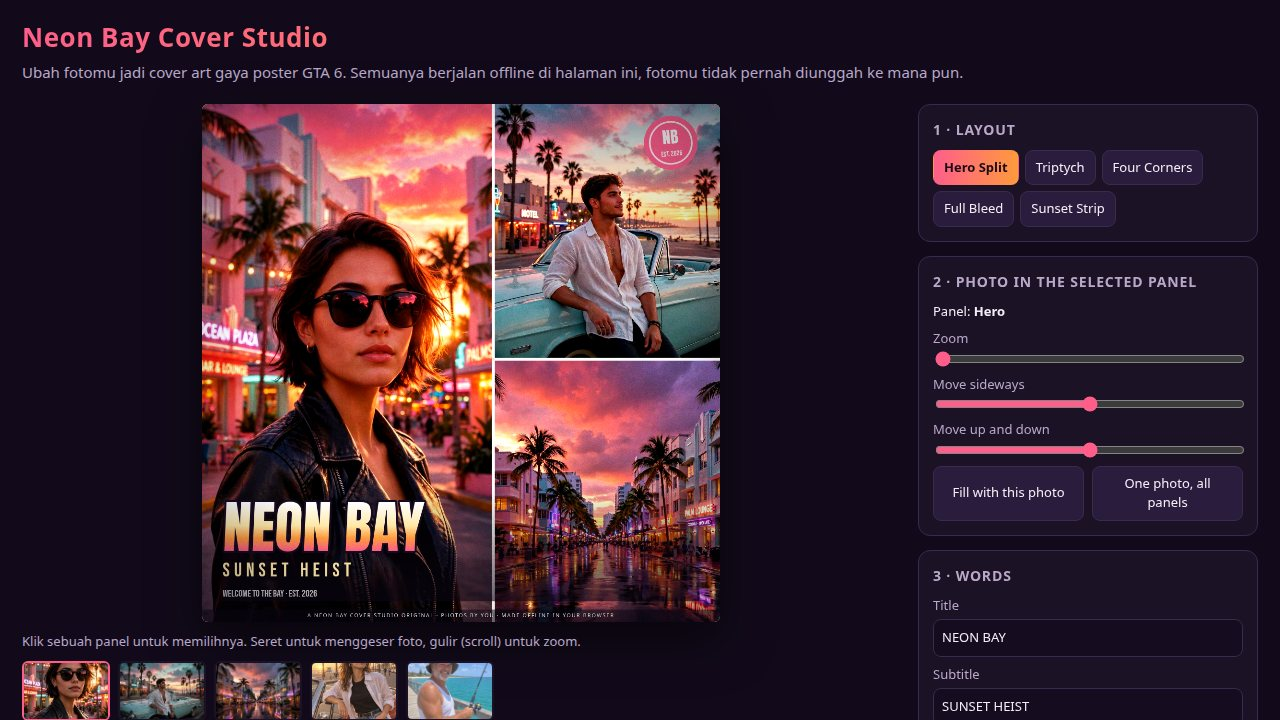
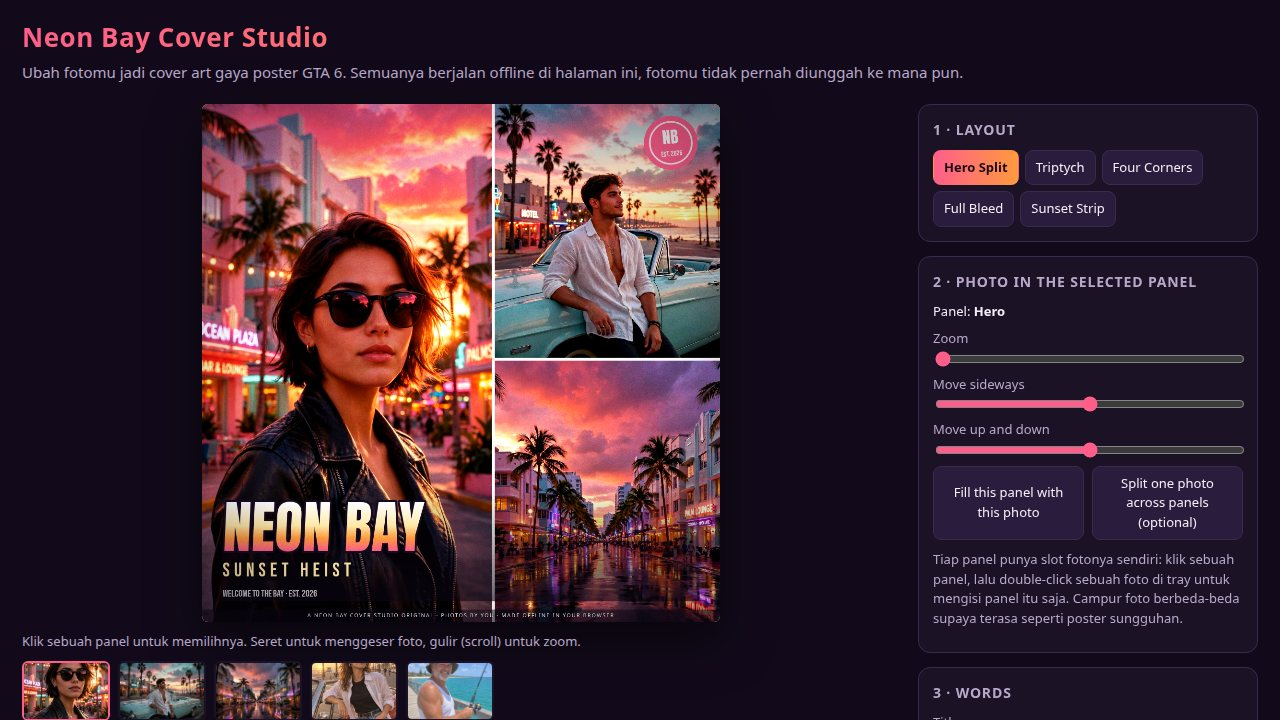
Different photo per panel: fix triptych + portrait shots, per-panel photo flow

Changed region(s): [[0.7188, 0.6417, 0.9688, 1.0]]

diff --git a/app/index.html b/app/index.html
@@ -42,9 +42,10 @@
         <input type="range" id="panYSlider" min="-0.5" max="0.5" step="0.01" value="0">
       </label>
       <div class="row">
-        <button id="fillPanelBtn" type="button">Fill with this photo</button>
-        <button id="fillAllBtn" type="button">One photo, all panels</button>
+        <button id="fillPanelBtn" type="button">Fill this panel with this photo</button>
+        <button id="fillAllBtn" type="button">Split one photo across panels (optional)</button>
       </div>
+      <p class="hint">Tiap panel punya slot fotonya sendiri: klik sebuah panel, lalu double-click sebuah foto di tray untuk mengisi panel itu saja. Campur foto berbeda-beda supaya terasa seperti poster sungguhan.</p>
     </section>
     <section class="group">
       <h2>3 · Words</h2>

diff --git a/app/src/main.js b/app/src/main.js
@@ -353,8 +353,15 @@ function acakSemua() {
   state.title = judul;
   state.subtitle = sub;
   sesuaikanPanelDenganLayout();
-  state.panels.forEach((panel) => {
-    const id = acakDari(FOTO_SAMPEL).id;
+  // Give every panel a different photo: shuffle a copy of the samples
+  // and take the first N for the N panels, so Surprise never repeats.
+  const acakan = [...FOTO_SAMPEL];
+  for (let i = acakan.length - 1; i > 0; i--) {
+    const j = Math.floor(Math.random() * (i + 1));
+    [acakan[i], acakan[j]] = [acakan[j], acakan[i]];
+  }
+  state.panels.forEach((panel, i) => {
+    const id = acakan[i % acakan.length].id;
     panel.zoom = 1;
     panel.ox = 0;
     panel.oy = 0;

diff --git a/app/src/shots.js b/app/src/shots.js
@@ -58,7 +58,9 @@ const UKURAN_ADEGAN = {
  * Run one screenshot scene from the query string.
  * Query keys: shot (cover or editor), size, layout, grade, title,
  * subtitle, tagline, style, photos (comma list, one per panel, cycling),
- * zoom, spread (1 spreads one photo's pan across the panels).
+ * zoom, spread (1 spreads one photo's pan across the panels; this is an
+ * optional split-one-photo mode only, never the default, and never what
+ * the judging screenshots use — those give every panel its own photo).
  * Returns the cover state it drew, for the editor to adopt.
  */
 export async function jalankanShot(params) {

diff --git a/README.md b/README.md
@@ -8,7 +8,7 @@
 
 ## What it does
 
-- **Multi-panel posters** — five layouts (Hero Split, Triptych, Four Corners, Full Bleed, Sunset Strip) with one photo split across panels or several photos on one cover, each panel cropped and positioned on its own (drag, scroll to zoom, or the sliders).
+- **Multi-panel posters** — five layouts (Hero Split, Triptych, Four Corners, Full Bleed, Sunset Strip) where every panel holds its own photo (a portrait, a car, a beach, a neon street), each panel cropped and positioned on its own (drag, scroll to zoom, or the sliders). Splitting one photo across the panels is only an optional extra, not the default.
 - **Vice City grades** — five grades (Sunset, Neon Nights, Golden Hour, Teal Noir, Candy Pop) applied per panel and across the whole cover, with film grain and vignette.
 - **Bold original lettering** — editable title, subtitle, and small line in three styles (chrome, solid, outline), set in Anton and Bebas Neue, both shipped under the SIL Open Font License. No Rockstar Games logo, artwork, or font anywhere.
 - **Three post sizes** — export PNG at 1080×1080, 1080×1350, and 1920×1080, all client-side and instant.
